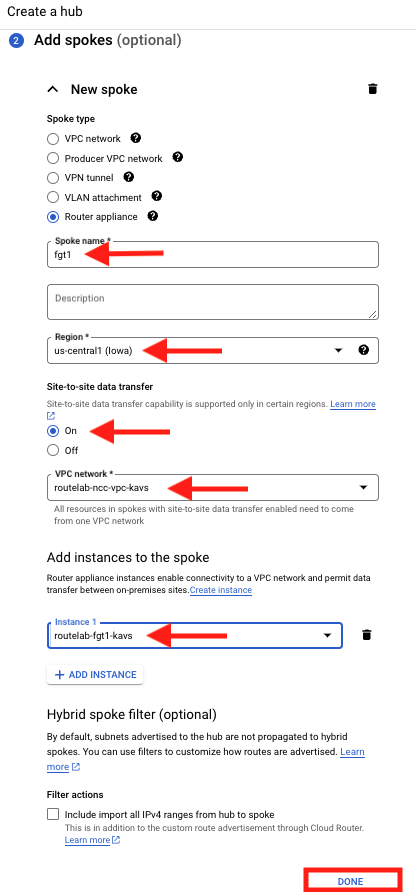
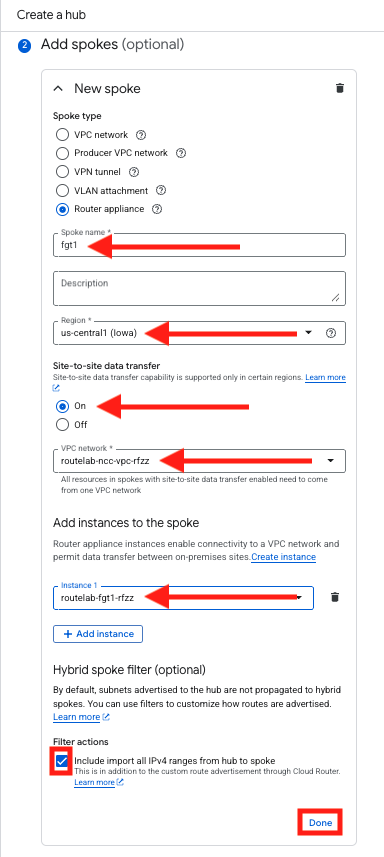
updating application VPC NCC Spoke

diff --git a/content/04Peer/4_Task3.md b/content/04Peer/4_Task3.md
@@ -1,40 +1,49 @@
 ---
-title: "Task 3 - Check Routes"
-linkTitle: "VPC Routes"
+title: "Task 3 - Verify Routing"
+linkTitle: "Verify Routes"
 chapter: false
 weight: 2
 ---
 
 ## Check NCC VPC Routing Table
 
-While still on the VPC network details screen for the NCC VPC, let's check on routing.
+1. Now that we have the spoke configured, we need to go back to the Application project and delete the default route which is configuredfor the peer-vpc This route will take precedence over the default being advertised by FortiGate.
+    - Navigate to VPC Network > Routes > Route Management
+    - select the box next to the default route assosicated with the peer network.
+    - Click **Delete**
 
-1. Click on the **ROUTES** tab and select the **us-central1 (Iowa)** region
-    - Click **View**
-    - Verify that the **10.18.0.0/24** and **10.19.0.0/24** routes are present and the Next hop is the Peering connection that you just created.
-    ![peer routes](peer-routes.png)
+1. Verify routing in the peer vpc.
+    - Click on the Effective routes tab and chose the peer vpc for region **us-central1** and click **view**
+    - Verify that we see the route from the Remote FortiGate as well as the default pointing to our NCC vpc.
 
-1. Navigate to the Application project and VPC.
-    - click on the **peer** vpc under "VPC networks"
-    - click on the **ROUTES** tab and select the **us-central1 (Iowa)** region
-    - click **View**
-    ![peer2 routes](peer2-routes.png)
-    - Notice that we have received 3 routes
-        2 @ "peering-route"
-        These are the CIDRs for the two subnets in the NCC VPC.
-            - 10.15.0.0/24
-            - 10.16.0.0/24
-        1 @ "imported-route"
-        This is the route that NCC learned via BGP from our FortiGate
-            - 192.168.100.0/24
+    ![peer table](peer_table.png)
 
-1. Look at the above pictured route table and notice the "default-route" for this region is pointing to the "Default internet gateway" as it's Next hop.
-    This presents a problem.  We need to route all traffic across our newly created VPC Peering link so that FortiGate can provide security.
-    - click on the **default-route** to open the details
-    - click **DELETE**
-    - navigate back to the routing table and notice that we have now imported the default route from the NCC VPC
-    ![new default](new-default.png)
+1. Verify routing in the FortiGate.
+    - Access FortiGate CLI and verify that we see **10.18.0.0/24** and **10.19.0.0/24**
 
-{{% notice info %}} It's worth noting that the terraform used to create this environment included a fireall rule to allow ALL ingress traffic from 10.0.0.0/8. If this were not in place, you would need to add it.  You can check the Firewall rules by clicking on the **FIREWALLS** tab {{% /notice %}}
+```sh
+fgt1 # get router info bgp summary 
 
-### Proceed to the next section
+VRF 0 BGP router identifier 10.15.0.2, local AS number 65200
+BGP table version is 6
+2 BGP AS-PATH entries
+0 BGP community entries
+
+Neighbor    V         AS MsgRcvd MsgSent   TblVer  InQ OutQ Up/Down  State/PfxRcd
+10.15.0.252 4      65100     879    1009        6    0    0 01:30:43        4
+10.15.0.253 4      65100     870     997        6    0    0 04:48:10        4
+10.17.1.1   4      65200     140     146        6    0    0 02:01:38        1
+
+Total number of neighbors 3
+
+
+fgt1 # get router info routing-table bgp
+Routing table for VRF=0
+B       10.16.0.0/24 [20/333] via 10.15.0.253 (recursive via 10.15.0.1, port2), 04:48:21, [1/0]
+B       10.18.0.0/24 [20/100] via 10.15.0.253 (recursive via 10.15.0.1, port2), 01:45:13, [1/0]
+B       10.19.0.0/24 [20/333] via 10.15.0.253 (recursive via 10.15.0.1, port2), 01:45:13, [1/0]
+B       192.168.100.0/24 [200/0] via 10.17.1.1 (recursive via RMT-FGT tunnel 35.188.153.216), 02:01:26, [1/0]
+
+
+fgt1 # 
+```

diff --git a/content/04Peer/2_Task1.md b/content/04Peer/2_Task1.md
@@ -1,13 +1,13 @@
 ---
-title: "Task 1 - Configure Application VPC"
-linkTitle: "Application VPC"
+title: "Task 1 - Configure NCC SPOKE IN Application VPC"
+linkTitle: "Application VPC SPOKE CONFIG"
 chapter: false
 weight: 2
 ---
 
 ## Configure VPC Peering on Application VPC
 
-During bootstrap of this environment, a separate project containing an application VPC was configured with an Ubuntu VM.  For this exercise, we will log into that project and create a VPC peering configuration for our NCC Trust VPC.
+During bootstrap of this environment, a separate project containing an application VPC was configured with an Ubuntu VM.  For this exercise, we will log into that project and create a VPC spoke
 
 1. Log into the Project Containing the application VPC
 
@@ -20,27 +20,30 @@ During bootstrap of this environment, a separate project containing an applicati
     {{% notice info %}} If you are unclear what which project this is, you can go to the Student Information pane on the left of the screen in qwiklabs and see the Application VPC ID {{% /notice %}}
     ![select project](select_proj.png)
 
-1. Now that you are logged into the Application project You will need to navigate to the VPC
+1. Now that you are logged into the Application project You will need to navigate to Network Connectivity Center
 
-    - Click on the Navigation window icon at the top left of the screen.
-    - Click through **VPC Network** > **VPC networks**
+    - Click on *Add spokes**
+    - Since we are adding a spoke here and not a hub, we will need to indicate the Hub name and project ID for our other project
+    - Once added, click **Create**
 
-    ![vpc-nets](vpc-nets.png)
+    ![Peer Hub](peer_hub.png)
 
-1. Configure Peering
-    - click on the peer vpc under "VPC networks"
-    - On the VPC network details screen, select the **VPC NETWORK PEERING** tab and then click **ADD PEERING**
-    ![add peer](add-peer.png)
-        - Peering connection name = **ncc-vpc**
-        - select **In another project**
-        - enter NCC project ID
-        - enter NCC network name
-        - select **Import** and **Export** custom routes
-        - leave everything else as default
-        - click **CREATE**
-    ![peer create](peer-create.png)
-    
+1. Configure Spoke
+    - now that we have designated our Hub, we will need to create the spoke for our local network
+    - Spoke type will be **VPC network**
+    - Spoke name is arbitrary, we can go with peer-spoke, or some other name that will make sense to you later
+    - Associated VPC network will be our local VPC (there is only one option in this case)
+    - Leave everything else as default and select **Done**
 
+    ![Peer Spoke](peer_spoke.png)
 
+    - Once complete, click **Create**
+
+    ![Peer Create](peer_create.png)
+
+1. Verify that peer is created
+    - Now open the **Spokes** tab and verify that your peer is in **Inactive, pending review** state
+
+   ![Inactive Peer](inact_peer.png)
 
 ### Proceed to the next section

diff --git a/content/04Peer/3_Task2.md b/content/04Peer/3_Task2.md
@@ -1,34 +1,30 @@
 ---
-title: "Task 2 - Configure Application VPC"
-linkTitle: "NCC VPC"
+title: "Task 2 - Accept Application Spoke in NCC Hub"
+linkTitle: "NCC Accept Peer"
 chapter: false
 weight: 2
 ---
 
-## Configure VPC Peering on NCC VPC
+## Configure Application Spoke in NCC Network
 
-Now, let's configure VPC Peering on the NCC VPC
+Navigate to the original NCC project 
 
-1. Log back into the Project Containing the NCC VPC and navigate to 
+1. Navigate to Network Connectivity Center
 
-    - Click on the Navigation window icon at the top left of the screen.
-    - Click through **VPC Network** > **VPC networks**
+    - Click on the **Spokes** tab
+    - Verify that you see the peer spoke you created previously in **Inactive, pending review** state
+    ![hub inactive peer spoke](hub_peer_spoke_inact.png)
 
-1. Configure Peering
-    - click on the **ncc** vpc under "VPC networks"
-    - On the VPC network details screen, select the **VPC NETWORK PEERING** tab and then click **ADD PEERING**
-        - Peering connection name = **app-vpc**
-        - select **In another project**
-        - enter Application project ID
-        - enter Peer network name
-        - select **Import** and **Export** custom routes
-        - leave everything else as default
-        - click **CREATE**
-    ![second peer create](peer2-create.png)
+1. Accept Peer Spoke
+    - Click on the peer-spoke in order to see the details screen.
+    - At the top of the screen, we will see an option to Accept or Reject.  click on **Accept**
 
-1. Confirm that Peer Status is Active
+    ![peer accept](peer_accept.png)
 
-    Now that peering is configured on both ends, we need to verify that the status comes up as active.
-    ![peer active](peer-act.png)
+1. Confirm that the spoke becomes active
+
+    ![peer spoke active](peer_spoke_active.png)
+
+
 
 ### Proceed to the next section

diff --git a/content/02BuildNCC/4_Task3.md b/content/02BuildNCC/4_Task3.md
@@ -7,7 +7,13 @@ weight: 3
 
 ## Configure FortiGates
 
-1. Log into FortiGate 1 using ``` ssh admin@<fortigate public ip> ``` password will be ```Fortinet1234$```
+1. Log into FortiGate 1 CLI:
+
+- If you have a favorite ssh application like putty (windows) or terminal (mac), ssh using ``` ssh admin@<fortigate public ip> ``` password will be ```Fortinet1234$```
+- If not, go to the GCP Console and open a Cloud Shell terminal and issue the ssh command fromt there.
+
+![SSH Shell](ssh_shell.png)
+
 
 2. Copy the below configuration and paste it into the CLI
 
@@ -41,12 +47,14 @@ weight: 3
       set router-id 10.15.0.2
       config neighbor
          edit 10.15.0.252
+               set capability-default-originate enable
                set ebgp-enforce-multihop enable
                set soft-reconfiguration enable
                set remote-as 65100
                set route-map-in nexthop1
          next
          edit 10.15.0.253
+               set capability-default-originate enable
                set ebgp-enforce-multihop enable
                set soft-reconfiguration enable
                set remote-as 65100
@@ -147,12 +155,14 @@ weight: 3
       set router-id 10.16.0.2
       config neighbor
          edit 10.16.0.252
+               set capability-default-originate enable
                set ebgp-enforce-multihop enable
                set soft-reconfiguration enable
                set remote-as 65100
                set route-map-in nexthop1
          next
          edit 10.16.0.253
+               set capability-default-originate enable
                set ebgp-enforce-multihop enable
                set soft-reconfiguration enable
                set remote-as 65100

diff --git a/content/02BuildNCC/2_Task1.md b/content/02BuildNCC/2_Task1.md
@@ -27,6 +27,7 @@ weight: 1
      - for VPC, we will choose **routelab-ncc-vpc-random**
      - Click on **ADD INSTANCE**
      - In the drop down, choose the FortiGate.  It will be named **routelabe-fgt1-random**
+     - Under Filter actions, click the checkbox to **Include import all IPv4 ranges from hub to spoke**
      - Click **Done**
 
      ![New Spoke](new_spoke.png)

diff --git a/content/04Peer/_index.md b/content/04Peer/_index.md
@@ -1,7 +1,7 @@
 ---
-title: "Ch 3 - Build VPC Peering "
+title: "Ch 3 - Build VPC NCC SPOKE "
 chapter: false
-linkTitle: "Ch 4: Build VPC Peering"
+linkTitle: "Ch 4: Build VPC NCC SPOKE"
 weight: 40
 ---
 
